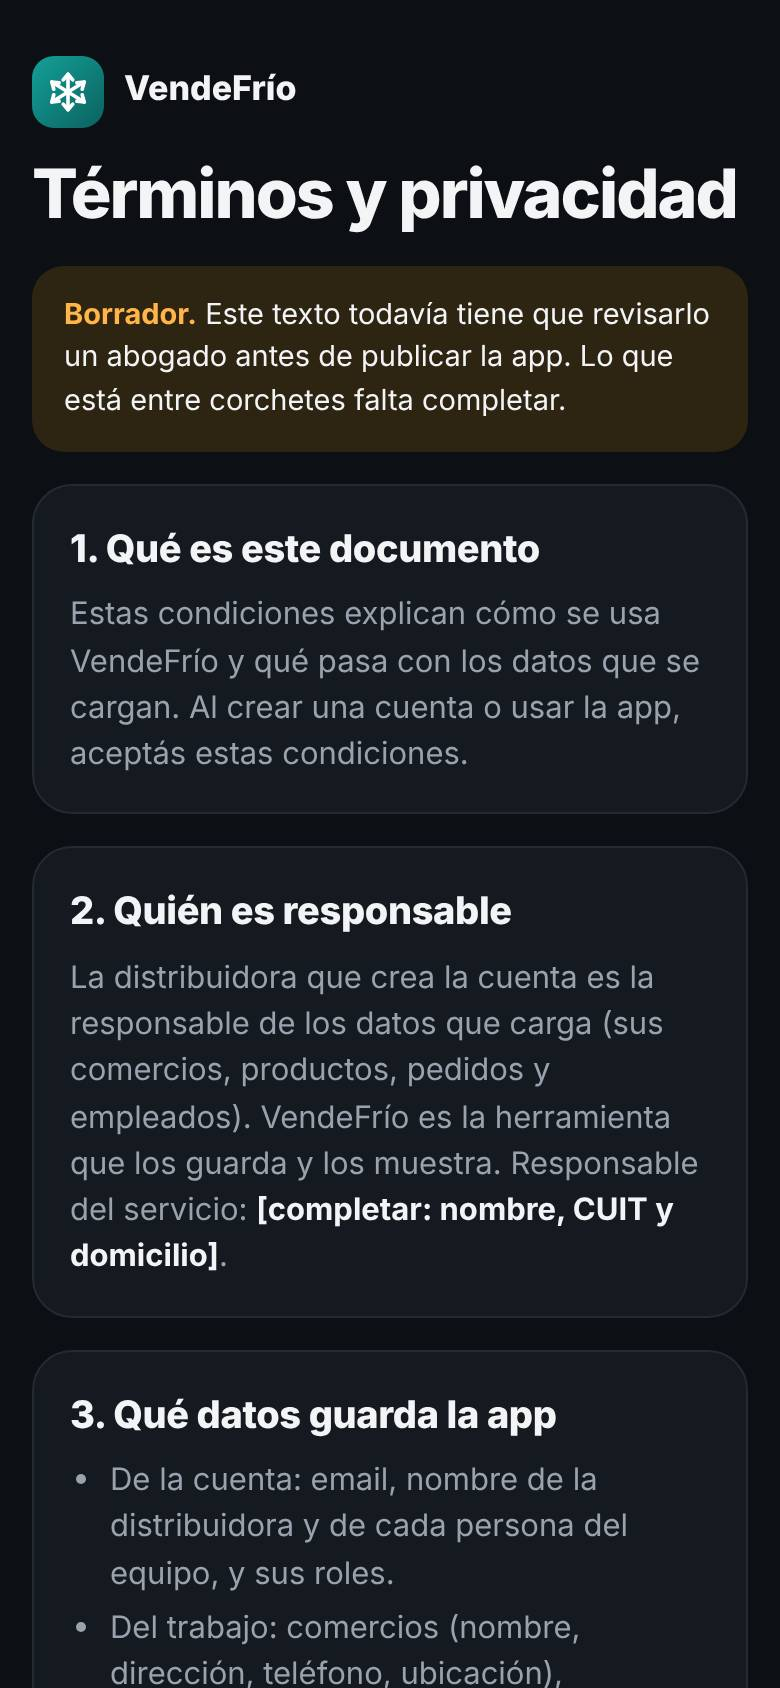
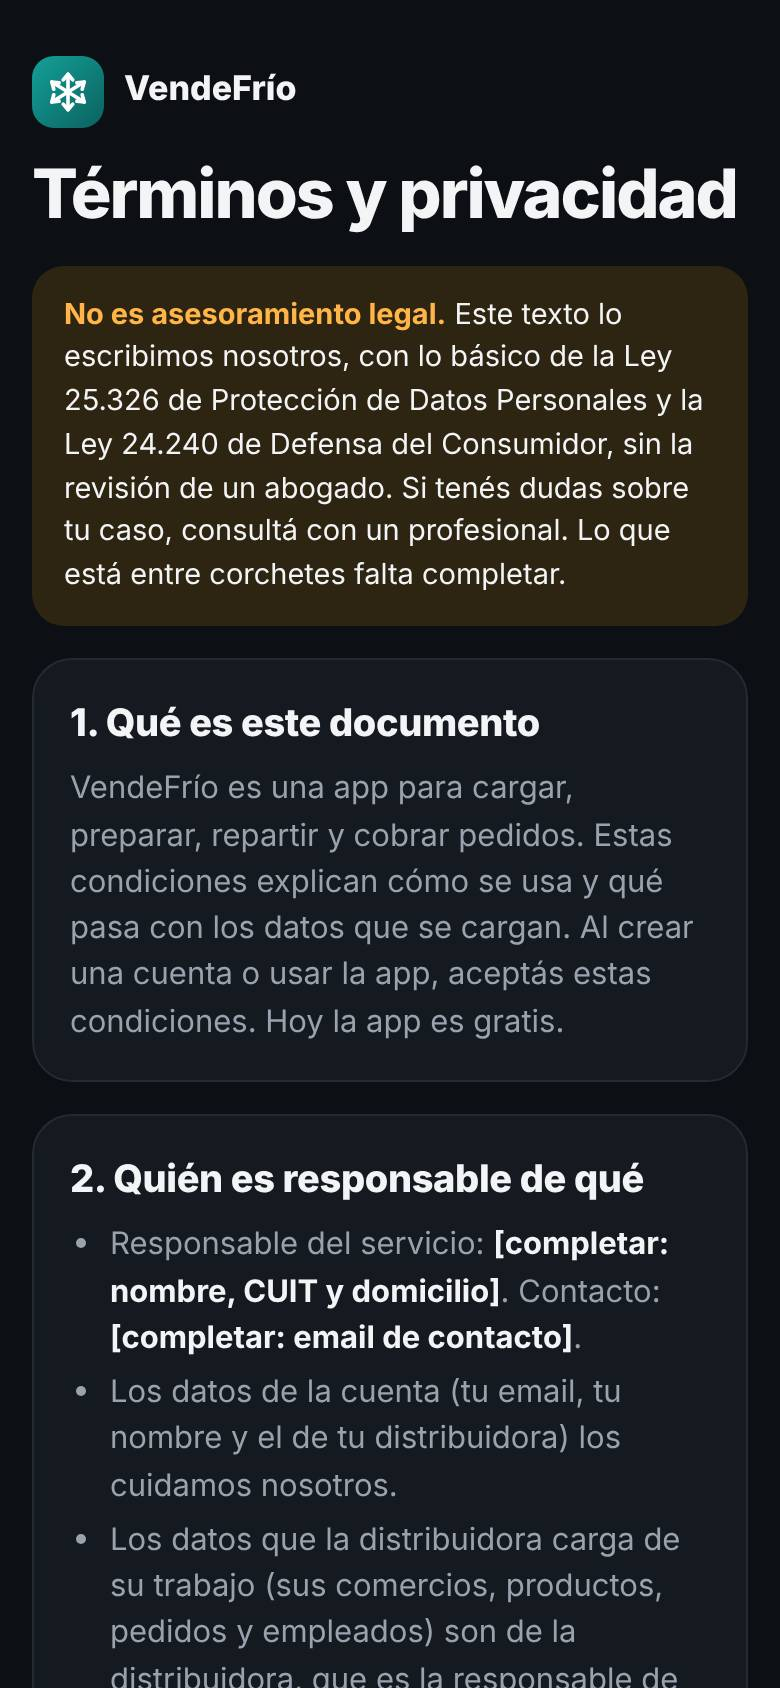
T159: repaso casero de términos y privacidad
Texto claro con lo básico de las leyes 25.326 y 24.240, aviso de que no
es asesoramiento legal, todos los servicios que reciben datos, baja
gratis, plazos de acceso y la leyenda de la Agencia. Cache v211.

Claude-Session: https://claude.ai/code/session_014MXfF8TC31rDLXevyJkTF8

Changed region(s): [[0.0308, 0.154, 0.9846, 1.0]]

diff --git a/terminos.html b/terminos.html
@@ -12,18 +12,21 @@
 <main>
 <a class="marca" href="./" style="text-decoration:none;color:inherit"><img src="icon.svg" alt="">VendeFrío</a>
 <h1>Términos y privacidad</h1>
-<p class="borrador"><strong>Borrador.</strong> Este texto todavía tiene que revisarlo un abogado antes de publicar la app. Lo que está entre corchetes falta completar.</p>
-<section class="card"><h2>1. Qué es este documento</h2><p>Estas condiciones explican cómo se usa VendeFrío y qué pasa con los datos que se cargan. Al crear una cuenta o usar la app, aceptás estas condiciones.</p></section>
-<section class="card"><h2>2. Quién es responsable</h2><p>La distribuidora que crea la cuenta es la responsable de los datos que carga (sus comercios, productos, pedidos y empleados). VendeFrío es la herramienta que los guarda y los muestra. Responsable del servicio: <strong>[completar: nombre, CUIT y domicilio]</strong>.</p></section>
-<section class="card"><h2>3. Qué datos guarda la app</h2><ul class="lista"><li>De la cuenta: email, nombre de la distribuidora y de cada persona del equipo, y sus roles.</li><li>Del trabajo: comercios (nombre, dirección, teléfono, ubicación), productos y precios, pedidos, entregas, cobros, gastos y visitas.</li><li>Fotos y firmas que se carguen como prueba de entrega, tickets de gastos o fotos de heladeras.</li><li>La ubicación del celular, solo cuando la persona la activa (por ejemplo, “compartir mi ubicación” mientras reparte) y solo mientras está activa.</li><li>Datos técnicos para resolver problemas: modelo de celular, versión de la app y errores.</li></ul></section>
-<section class="card"><h2>4. Para qué se usan</h2><p>Solo para que la app funcione: mostrar pedidos al equipo, armar rutas, calcular cobros y estadísticas, mandar avisos y resolver problemas. No se venden ni se usan para publicidad.</p></section>
-<section class="card"><h2>5. Dónde se guardan y con quién se comparten</h2><ul class="lista"><li>En la nube de Google Firebase (servidores de Google), protegidos por reglas de acceso: cada distribuidora ve solo lo suyo.</li><li>Sin cuenta (modo personal), los datos quedan solo en ese celular.</li><li>Si se prende la IA en la nube, el texto que se dicta o se pregunta se manda a Anthropic para entenderlo, sin guardarlo para entrenar modelos.</li><li>WhatsApp, los mapas (OpenStreetMap) y el pago con Mercado Pago, solo cuando la persona los usa.</li></ul></section>
-<section class="card"><h2>6. Cuánto tiempo se guardan</h2><p>Mientras la cuenta esté activa. Algunos registros se borran solos (por ejemplo, la ubicación en vivo al terminar el reparto). Si la distribuidora da de baja la cuenta, se borran sus datos dentro de los 30 días, salvo lo que la ley obligue a guardar.</p></section>
-<section class="card"><h2>7. Tus derechos</h2><p>Según la Ley 25.326 de Protección de Datos Personales, cualquier persona puede pedir ver, corregir o borrar sus datos escribiendo a <strong>[completar: email de contacto]</strong>. La Agencia de Acceso a la Información Pública es el organismo de control y recibe denuncias por incumplimientos.</p></section>
-<section class="card"><h2>8. Uso correcto</h2><p>Cada persona cuida su contraseña o código. No se puede usar la app para cargar datos de terceros sin permiso, ni para nada ilegal. La distribuidora puede dar de baja a sus empleados cuando quiera.</p></section>
-<section class="card"><h2>9. Responsabilidad</h2><p>La app se ofrece tal como está. Hacemos lo posible para que funcione siempre, pero puede haber cortes. Recomendamos descargar un respaldo seguido (Más › Cuenta). No respondemos por pérdidas de ventas por cortes de internet o del servicio.</p></section>
-<section class="card"><h2>10. Cambios</h2><p>Si estas condiciones cambian, la app lo avisa antes de que empiecen a regir.</p></section>
-<p class="pie">Última actualización: 16 de octubre de 2026 · <a href="presentacion.html">Qué es VendeFrío</a> · <a href="./">Abrir la app</a></p>
+<p class="borrador"><strong>No es asesoramiento legal.</strong> Este texto lo escribimos nosotros, con lo básico de la Ley 25.326 de Protección de Datos Personales y la Ley 24.240 de Defensa del Consumidor, sin la revisión de un abogado. Si tenés dudas sobre tu caso, consultá con un profesional. Lo que está entre corchetes falta completar.</p>
+<section class="card"><h2>1. Qué es este documento</h2><p>VendeFrío es una app para cargar, preparar, repartir y cobrar pedidos. Estas condiciones explican cómo se usa y qué pasa con los datos que se cargan. Al crear una cuenta o usar la app, aceptás estas condiciones. Hoy la app es gratis.</p></section>
+<section class="card"><h2>2. Quién es responsable de qué</h2><ul class="lista"><li>Responsable del servicio: <strong>[completar: nombre, CUIT y domicilio]</strong>. Contacto: <strong>[completar: email de contacto]</strong>.</li><li>Los datos de la cuenta (tu email, tu nombre y el de tu distribuidora) los cuidamos nosotros.</li><li>Los datos que la distribuidora carga de su trabajo (sus comercios, productos, pedidos y empleados) son de la distribuidora, que es la responsable de tenerlos con permiso. Nosotros los guardamos y los mostramos solo para que la app le funcione, y no los usamos para nada más.</li></ul></section>
+<section class="card"><h2>3. Qué datos guarda la app</h2><ul class="lista"><li>De la cuenta: email, nombre de la distribuidora y de cada persona del equipo, y sus roles. Son necesarios para tener cuenta; sin ellos solo se puede usar la app sin cuenta (modo personal).</li><li>Del trabajo: comercios (nombre, dirección, teléfono, ubicación), productos y precios, pedidos, entregas, cobros, saldos, gastos y visitas.</li><li>Lo que manda un comercio cuando pide por su link: su nombre y su pedido.</li><li>Fotos y firmas que se carguen como prueba de entrega, tickets de gastos o fotos de heladeras.</li><li>La ubicación del celular, solo cuando la persona la activa (por ejemplo, “compartir mi ubicación” mientras reparte o la navegación) y solo mientras está activa.</li><li>Si se conecta WhatsApp: los mensajes y audios que los comercios mandan a ese número, para armar el pedido.</li><li>Datos técnicos para resolver problemas: modelo de celular, versión de la app y errores, cuando alguien usa “Informar un problema”.</li></ul><p>Todo lo que no es de la cuenta es opcional: se carga solo si la distribuidora quiere.</p></section>
+<section class="card"><h2>4. Para qué se usan</h2><p>Solo para que la app funcione: mostrar los pedidos al equipo, armar rutas, calcular cobros y estadísticas, mandar avisos y resolver problemas. No se venden, no se alquilan y no se usan para publicidad.</p></section>
+<section class="card"><h2>5. Dónde se guardan y quién más los recibe</h2><p>Para funcionar, la app usa servicios de otras empresas. Algunos tienen sus servidores fuera de Argentina (por ejemplo, en Estados Unidos). Al aceptar estas condiciones, aceptás que los datos viajen a esos servicios, solo para lo que se explica acá:</p><ul class="lista"><li><strong>Google Firebase:</strong> guarda los datos en la nube, protegidos por reglas de acceso: cada distribuidora ve solo lo suyo. También manda las notificaciones.</li><li><strong>Vercel:</strong> es donde está publicada la app.</li><li><strong>Mapas y caminos:</strong> OpenStreetMap, los servidores de caminos de FOSSGIS y MapTiler reciben las ubicaciones y direcciones necesarias para dibujar el mapa y calcular la ruta.</li><li><strong>Anthropic (IA):</strong> solo si se prende la IA en la nube, recibe el texto que se dicta, se escribe o se pregunta, para entenderlo. Según sus condiciones, no lo usa para entrenar sus modelos.</li><li><strong>WhatsApp (Meta) y OpenAI:</strong> solo si se conecta WhatsApp. Meta pasa los mensajes y OpenAI pasa los audios a texto.</li><li><strong>El dictado por voz</strong> lo hace el navegador del celular (en Chrome, con servicios de Google).</li><li><strong>Mercado Pago:</strong> la app solo muestra tu alias o QR; el pago se hace en la app de Mercado Pago, con sus propias condiciones.</li><li>Sin cuenta (modo personal), los datos quedan solo en ese celular.</li></ul></section>
+<section class="card"><h2>6. Cómo se cuidan</h2><p>Los datos viajan cifrados y la nube solo deja entrar a las personas del equipo de cada distribuidora, según su rol. Cada persona cuida su contraseña o código, y la distribuidora puede dar de baja a un empleado cuando quiera.</p></section>
+<section class="card"><h2>7. Cuánto tiempo se guardan y cómo dar de baja la cuenta</h2><p>Mientras la cuenta esté activa. La ubicación en vivo se borra al dejar de compartirla. Para dar de baja la cuenta alcanza con pedirlo a <strong>[completar: email de contacto]</strong>, sin trámites ni costo. Sus datos se borran dentro de los 30 días, salvo lo que la ley obligue a guardar. Antes, conviene descargar un respaldo (Más › Cuenta). En modo personal, los datos se borran desde el mismo celular.</p></section>
+<section class="card"><h2>8. Tus derechos sobre tus datos</h2><p>Cualquier persona puede pedir ver qué datos suyos hay, corregirlos, actualizarlos o borrarlos, escribiendo a <strong>[completar: email de contacto]</strong>. Ver tus datos es gratis y se responde dentro de los 10 días corridos; las correcciones y los borrados se hacen dentro de los 5 días hábiles. Si sos un comercio o un empleado de una distribuidora, también se lo podés pedir a ella.</p><p>El titular de los datos personales tiene la facultad de ejercer el derecho de acceso a los mismos en forma gratuita a intervalos no inferiores a seis meses, salvo que se acredite un interés legítimo al efecto conforme lo establecido en el artículo 14, inciso 3 de la Ley N.º 25.326. La Agencia de Acceso a la Información Pública, en su carácter de Órgano de Control de la Ley N.º 25.326, tiene la atribución de atender las denuncias y reclamos que interpongan quienes resulten afectados en sus derechos por incumplimiento de las normas vigentes en materia de protección de datos personales.</p></section>
+<section class="card"><h2>9. Uso correcto</h2><p>La app es para trabajar. No se puede usar para cargar datos de otras personas sin permiso, ni para nada ilegal. Si alguien la usa así, podemos suspender su cuenta, avisándole antes salvo que sea grave.</p></section>
+<section class="card"><h2>10. Qué pasa si algo falla</h2><p>Hacemos lo posible para que la app funcione siempre y sin errores, pero puede haber cortes. No respondemos por fallas que no dependen de nosotros, como cortes de internet, problemas del celular o de los servicios de otras empresas del punto 5. Por eso recomendamos descargar un respaldo seguido (Más › Cuenta). Nada de esto quita los derechos que te da la Ley 24.240 si sos consumidor.</p></section>
+<section class="card"><h2>11. Precio</h2><p>Hoy VendeFrío es gratis. Si algún día se cobra, se avisa antes, con el precio y lo que incluye. Nada se cobra sin que lo aceptes, y podés darte de baja cuando quieras.</p></section>
+<section class="card"><h2>12. Cambios en estas condiciones</h2><p>Si estas condiciones cambian, la app lo avisa al menos 15 días antes de que empiecen a regir. Si no estás de acuerdo, podés dar de baja la cuenta y descargar tus datos antes.</p></section>
+<section class="card"><h2>13. Consultas y reclamos</h2><p>Escribinos a <strong>[completar: email de contacto]</strong> y te respondemos lo antes posible. Si sos consumidor, también podés reclamar en <a href="https://www.argentina.gob.ar/produccion/defensadelconsumidor" target="_blank" rel="noopener">Defensa del Consumidor</a>. Rige la ley argentina; si sos consumidor, podés hacerlo ante los tribunales de tu domicilio.</p></section>
+<p class="pie">Última actualización: 22 de octubre de 2026 · <a href="presentacion.html">Qué es VendeFrío</a> · <a href="./">Abrir la app</a></p>
 </main>
 </body>
 </html>

diff --git a/pruebas/bienvenida.prueba.js b/pruebas/bienvenida.prueba.js
@@ -57,7 +57,7 @@ test("bienvenida: probar con datos de ejemplo y empezar de cero", async ({ page 
     await filaTerminos.evaluate(fila => fila.scrollIntoView({ block: "center" }));
     const [terminos] = await Promise.all([page.waitForEvent("popup"), filaTerminos.click()]);
     await expect(terminos.getByRole("heading", { name: "Términos y privacidad" })).toBeVisible();
-    await expect(terminos.getByText("Borrador.")).toBeVisible();
+    await expect(terminos.getByText("No es asesoramiento legal.")).toBeVisible();
     await terminos.close();
 });
 

diff --git a/sw.js b/sw.js
@@ -1,7 +1,7 @@
 // =====================================================
 // VendeFrío - Service Worker (v164 - Estilo nuevo)
 // =====================================================
-const CACHE_NAME = "vendefrio-v210";
+const CACHE_NAME = "vendefrio-v211";
 const ARCHIVOS = [
   "./",
   "./index.html",

diff --git a/PROJECT_STATE.md b/PROJECT_STATE.md
@@ -1046,7 +1046,7 @@ El dueño revisó lo que Claude decidió solo en las Etapas 5 y 6 (M12). Le gust
 - [ ] **T156 — Elegir qué se ve en Inicio.** En Más > Apariencia, un grupo "Qué se ve en Inicio" con una llave por cada tarjeta (Próxima parada, Suelen pedir los…, avisos, resumen del día y las demás). "Suelen pedir los…" arranca apagada para todos. Se guarda en cada celular. Esfuerzo: Medio.
 - [ ] **T157 — Tutorial interactivo para quien recién entra.** En vez de solo la lista de "Primeros pasos", un recorrido que señala cada botón en la pantalla real y explica qué hace: cargar un producto, un comercio y el primer pedido, Rutas y Más. Se puede saltear y volver a ver desde Más > Seguridad y ayuda. Corto y liviano para celulares baratos. Esfuerzo: Alto.
 - [ ] **T158 — Mucha más personalización en Apariencia.** Al dueño le gustan los ajustes de hoy y quiere muchos más: más colores principales (y uno a elección), más temas, forma de los botones, tamaño de los íconos, fondo de Inicio y estilo de las tarjetas, con vista previa. Que todos funcionen de verdad y no traben la app. Esfuerzo: Alto.
-- [ ] **T159 — Repaso casero de los términos (en lugar de M19).** Claude revisa los términos y la privacidad de T87 con lo básico de la ley argentina (Ley 25.326 de datos personales y Ley 24.240 de defensa del consumidor). Los escribe claros y les agrega que no son un asesoramiento de un abogado. Esfuerzo: Medio.
+- [x] **T159 — Repaso casero de los términos (en lugar de M19).** Claude revisa los términos y la privacidad de T87 con lo básico de la ley argentina (Ley 25.326 de datos personales y Ley 24.240 de defensa del consumidor). Los escribe claros y les agrega que no son un asesoramiento de un abogado. Esfuerzo: Medio. **Hecha (2026-10-22):** `terminos.html` reescrito en 13 puntos: aviso de que no es asesoramiento legal, quién responde por qué datos, todos los servicios que reciben datos (Firebase, Vercel, mapas, Anthropic, Meta y OpenAI con WhatsApp, dictado del navegador, Mercado Pago) y su envío fuera del país, baja gratis por email con borrado en 30 días, plazos de la Ley 25.326 (ver gratis en 10 días, corregir o borrar en 5 hábiles) con la leyenda obligatoria de la Agencia, responsabilidad sin quitar derechos de la Ley 24.240, precio (hoy gratis), cambios avisados 15 días antes y reclamos. Faltan los datos entre corchetes (nombre, CUIT, domicilio y email del responsable).
 - [ ] **T161 — "Listas de precios" en Más.** Las listas ya existen (T78): se arman desde el catálogo (⋯ > "Precios por lista") y cada comercio tiene la suya en su ficha. Sumar en Más una opción "Listas de precios" para crear, renombrar y borrar listas (por ejemplo Supermercados, Almacenes y Kioscos) y cargar el precio de cada producto (con "subir todo un %" y redondeo, como ya hay). Al armar el pedido, se elige cualquier lista (arranca con la del comercio) y el pedido guarda los precios de esa lista. Esfuerzo: Alto (revisar si toca `firestore.rules`).
 - [ ] **T162 — Exportar una lista de precios a planilla y como folleto.** Desde la lista: "Exportar a planilla" (CSV para Excel o Google Sheets, como T47) y "Folleto para imprimir", una hoja prolija con el nombre y los datos de la distribuidora, los productos por marca y sus precios, para imprimir o mandar en PDF y dejarle a los comercios. Esfuerzo: Medio.
 - [ ] **T163 — Probar otro servidor de caminos gratis (Valhalla de FOSSGIS).** Alternativa gratis a M13: el mismo grupo que da el OSRM de hoy tiene un servidor Valhalla, sin clave, con perfil de moto de verdad y las indicaciones en español. Sumarlo detrás de un ajuste ("Servidor de caminos: OSRM o Valhalla") en `navegacion.js`, con OSRM como respaldo si falla. Compararlos en M22. Esfuerzo: Medio.
@@ -1186,3 +1186,4 @@ Una línea por sesión: fecha, quién trabajó, qué cambió, qué quedó pendie
 - 2026-10-22 — Claude Code: T153, lo que faltaba (directo a `desarrollo`). En Más, la fila de ajustes "Avisos" pasa a "Qué avisos recibir" (no se confunde con la campanita) y los comercios de ejemplo tienen su última visita. `errores.prueba.js` lo revisa. Caché v210.
 - 2026-10-22 — Claude Code: M12 hecha por el dueño, M19 sacada, M23 decidida (dejar así, T142 no se hace) y M20 para después de M11. Lo que pidió el dueño quedó como Bloque Q (T154 a T159 y M24), sin cambios en la app.
 - 2026-10-22 — Claude Code: Bloque Q ampliado con lo que pidió el dueño: T160 (asistente en todas las pantallas), T161 (Listas de precios en Más y elegir lista al armar el pedido), T162 (exportar la lista a planilla y como folleto) y T163 (probar Valhalla, gratis, en lugar de M13). Sin cambios en la app.
+- 2026-10-22 — Claude Code: T159. Términos y privacidad reescritos con lo básico de las leyes 25.326 y 24.240, claros y con el aviso de que no son asesoramiento legal (`terminos.html`, prueba de bienvenida ajustada). Pendiente del dueño: completar nombre, CUIT, domicilio y email del responsable; si se publica para otras distribuidoras, conviene inscribir la base de datos en el registro de la Agencia de Acceso a la Información Pública (es gratis, por internet).
